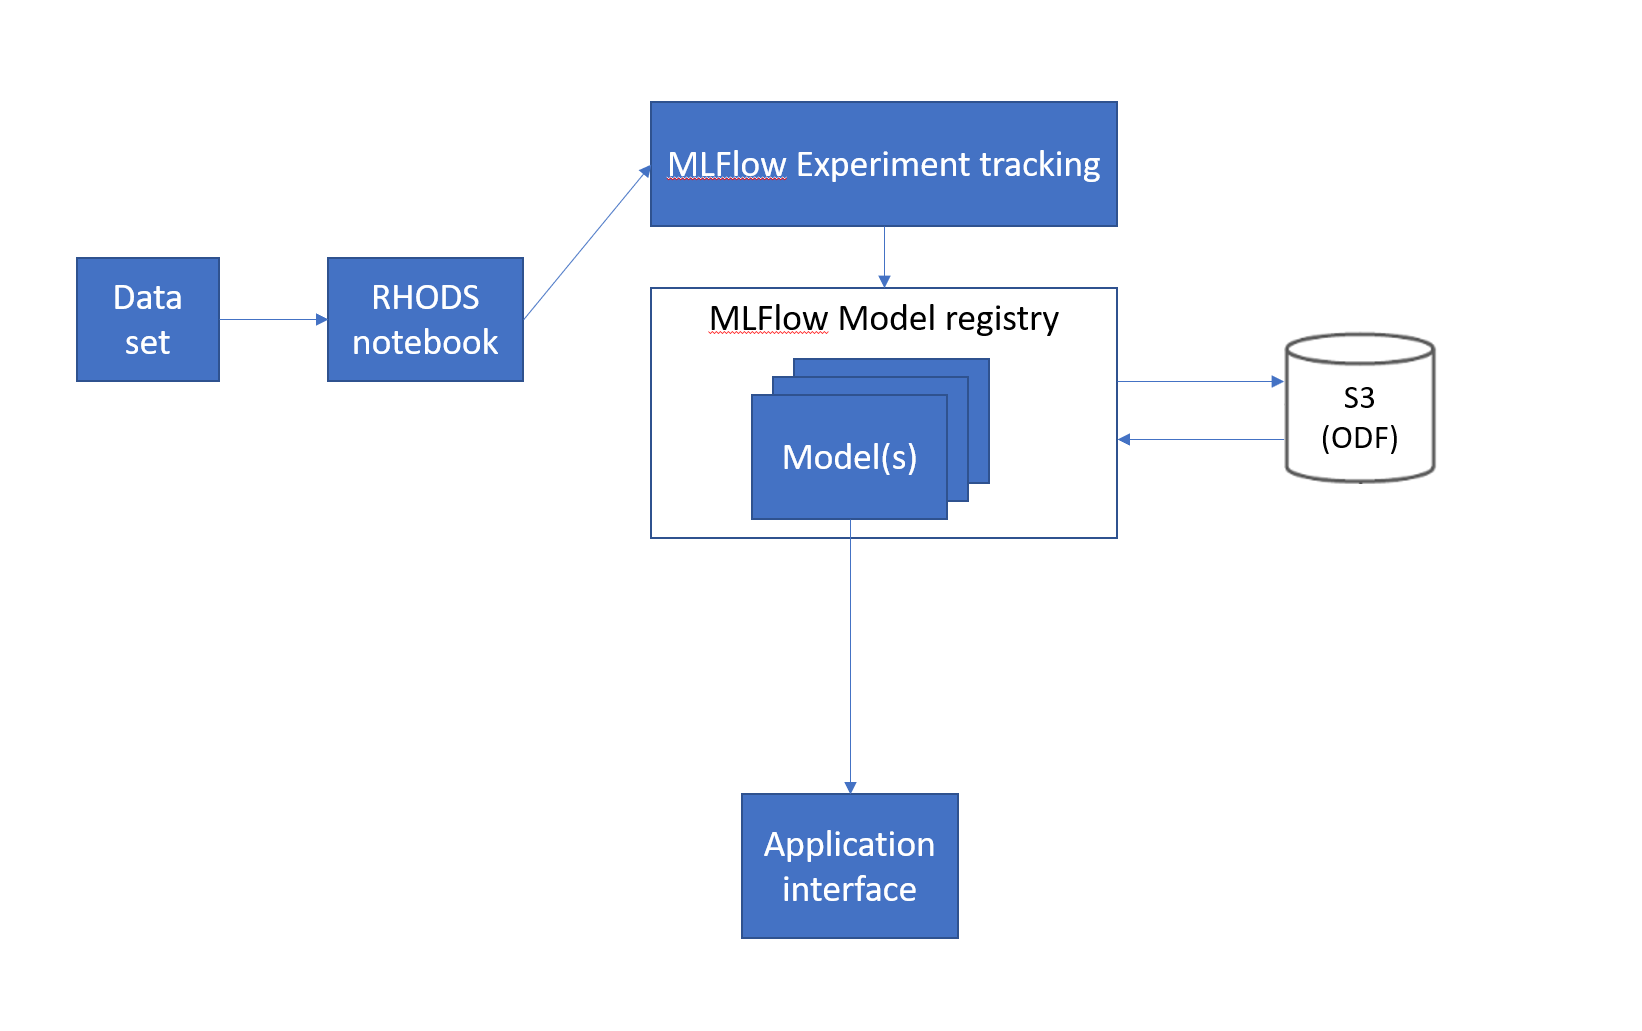
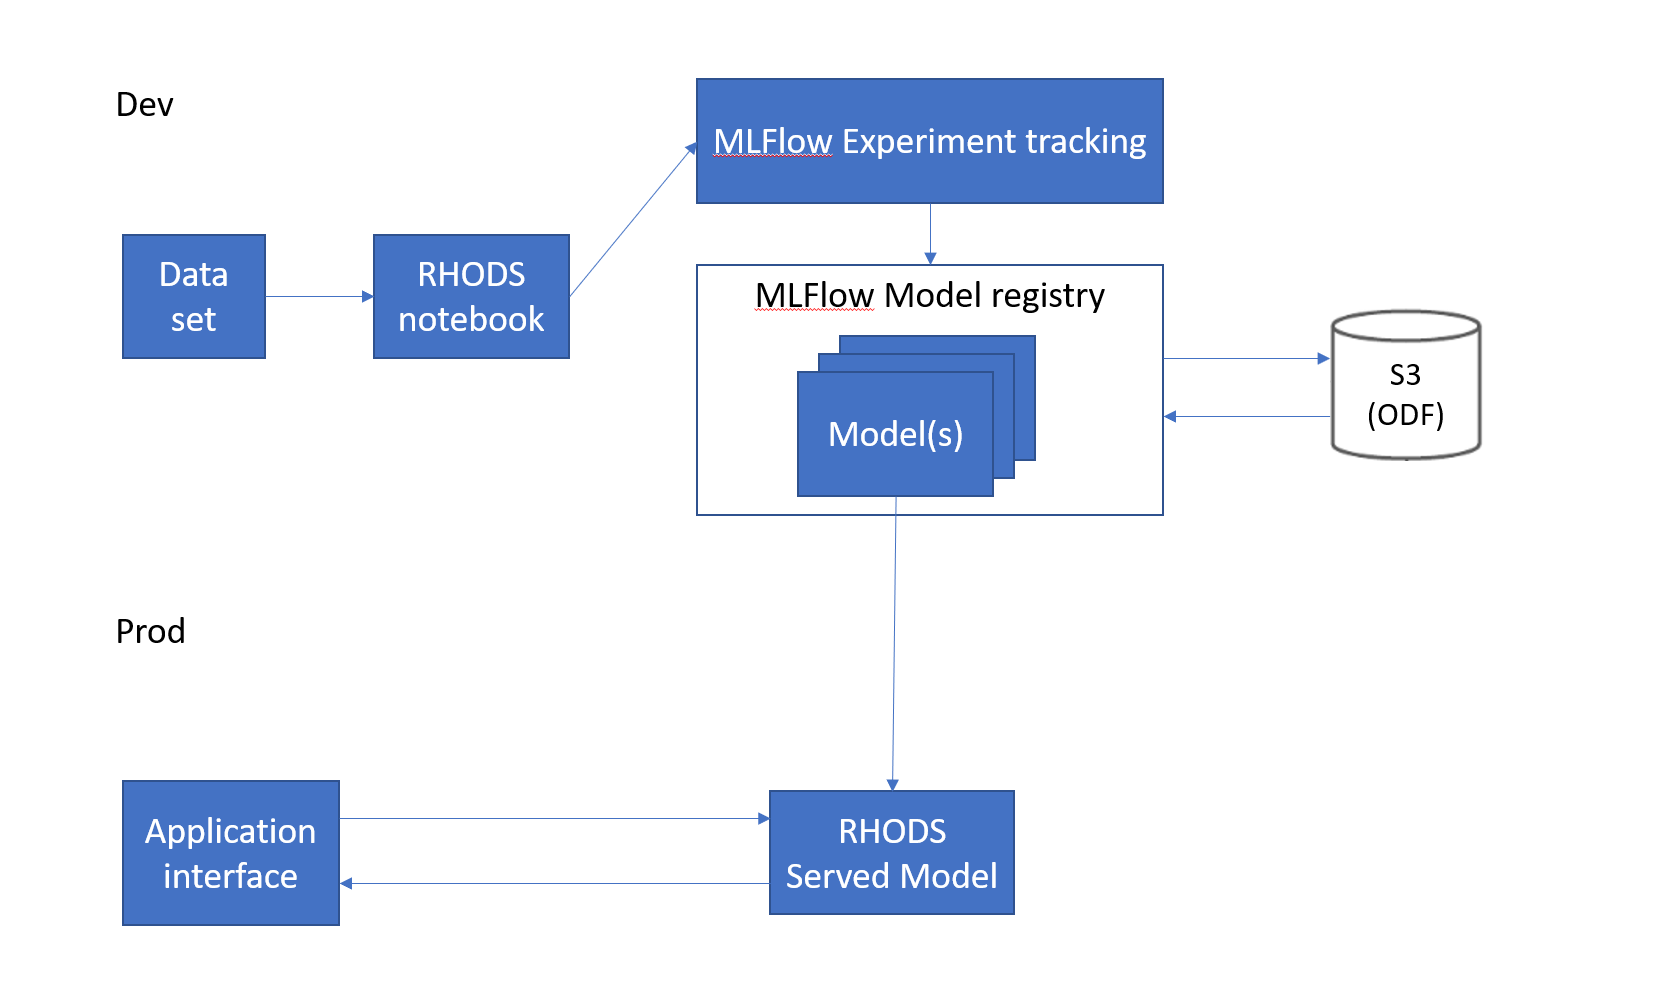
updated README to include RHODS Serving

diff --git a/README.md b/README.md
@@ -126,9 +126,13 @@ with mlflow.start_run():
     mlflow.log_metric("fp", f_p)
     mlflow.log_metric("fn", f_n)
     mlflow.log_metric("tp", t_p)
+
+    model_proto,_ = tf2onnx.convert.from_keras(model)
+    mlflow.onnx.log_model(model_proto, "models")
 ```
 `with mlflow.start_run():` is used to tell MLFlow that we are starting a run, and we wrap our training code with it to define exactly what code belongs to the "run".  
-Most of the rest of the code in this cell is normal model training and evaluation code, but at the very bottom we can see how we send some custom metrics to MLFlow through `mlflow.log_metric`. We do this as custom metrics are not tracked by the autolog we enabled in the previous cell.
+Most of the rest of the code in this cell is normal model training and evaluation code, but at the bottom we can see how we send some custom metrics to MLFlow through `mlflow.log_metric` and then convert the model to ONNX. This is because ONNX is one of the standard formats for RHODS Serving we will use later.
+
 
 Now run all the cells in the notebook from top to bottom, either by clicking Shift-Enter on every cell, or by going to Run->Run All Cells in the very top menu.  
 If everything is set up correctly it will train the model and push both the run and the model to MLFlow.  
@@ -153,33 +157,64 @@ You can now click on the row in the Created column to get more information about
 
 ![MLFlow view](img/MLFlow_view.png)
 
-### 5: Deploy the model application
-The model application is a visual interface for interacting with the model. You can use it to send data to the model and get a prediction of whether a transaction is fraudulent or not.  
-It works by loading a specific model and model version from MLFlow, and running any data that comes in through the model.  
+We will need the Full Path of the model in the next section when we are going to serve it, keep this open. 
+
+![MLFlow Model Path](img/MLFlow_Model_Path.png)
+
+
+### 5: Serve the model
+Now that we have a model trained and tracked, let's serve it using RHODS Serving.
+We are going to need a few details to load and serve the model, so bear with me.
+
+To start, go to your RHODS Project and click "Add data connection".
+This data connection connects us to a storage we can load our models from.
+
+![Add Data Connection](img/Add_Data_Connection.png)
+
+Here we need to fill out a few details. These are all assuming that you set up MLFlow according to this [guide](/tools-and-applications/mlflow/mlflow/) and have it connected to ODF. If that's not the case then enter the relevant details for your usecase.
+
+- **Name**: I call it `mlflow-connection`, feel free to call it something else
+- **AWS_ACCESS_KEY_ID**: Run `kubectl get secret noobaa-admin -n openshift-storage -o json | jq -r '.data.AWS_ACCESS_KEY_ID|@base64d'` in your command prompt to get this, in my case it's `9bgVYBWLDEq4Bk7wpmoJ`
+- **AWS_SECRET_ACCESS_KEY**: Run `kubectl get secret noobaa-admin -n openshift-storage -o json | jq -r '.data.AWS_SECRET_ACCESS_KEY|@base64d'` in your command prompt to get this, in my case it's `kc7hb9stJ2uwxF1c0RibOkrQYc2yd0FoVS7CLzGV`.  
+NOTE: In my case the cluster and storage has already been shut down, don't share this in normal cases.
+- **AWS_S3_ENDPOINT**: Run `oc describe noobaa -n openshift-storage | grep https://s3-openshift-storage.apps` in your command prompt to get this, in my case it's `https://s3-openshift-storage.apps.cluster-nvj4w.nvj4w.sandbox944.opentlc.com`
+- **AWS_DEFAULT_REGION**: Where the cluster is being ran
+- **AWS_S3_BUCKET**: *TODO, Fill in with correct directions!* In my case it's `mlflow-server-576a6525-cc5b-46cb-95f3-62c3986846df`
+
+Then press "Add data connection".  
+Here's an example of how it can look like:  
+![Data Connection Details](img/Data_Connection_Details.png)
+
+Then we will configure a model server, which will serve our models.
+
+![Configure Model Server](img/Configure_Model_Server.png)
+
+Just check the 'Make deployed available via an external route' checkbox and then press "Configure" at the bottom.
+
+Finally, we will deply the model, to do that, press the "Deploy model" button which is in the same place that "Configure Model" was before.  
+We need to fill out a few settings here:
+
+- **Name**: I call it `credit card fraud`, feel free to call it something else
+- **Model framework**: If you recall from the model training section, we saved the model as ONNX, so select that here
+- **Model location**:
+    - **Name**: `mlflow-connection`
+    - **Folder path**: This is the full path we can see in the MLFlow interface from the end of the last section. In my case it's `1/b86481027f9b4b568c9efa3adc01929f/artifacts/models/` . Beware that we only need the last part which looks something like: `/1/..../artifacts/models`
+    ![MLFlow Model Path](img/MLFlow_Model_Path.png)
+
+![Deployment Model Options](img/Deployment_Model_Options.png)
+
+Press Deploy and wait for it to complete. It will show a green checkmark when done.  
+You can see the status here:
+
+![Deployment Status](img/Deployment_Status.png)
+
+We are going to need the "Inference endpoint" in the next section, so keep track of it.
+
+### 6: Deploy the model application
+The model application is a visual interface for interacting with the model. You can use it to send data to the model and get a prediction of whether a transaction is fraudulent or not.   
 You can find the model application code in the "application" folder in the GitHub repository you cloned in [step 3](#3-train-the-model).
 
 ![Model Application Folder](img/Model_Application_Folder.PNG)
-
-If you look inside `model_application.py` you are going to see a few particularly important lines of code:
-```
-# Get a few environment variables. These are so we can:
-# - get data from MLFlow
-# - Set server name and port for Gradio
-MLFLOW_ROUTE = os.getenv("MLFLOW_ROUTE")
-...
-
-# Connect to MLFlow using the route.
-mlflow.set_tracking_uri(MLFLOW_ROUTE)
-
-# Specify what model and version we want to load, and then load it.
-model_name = "DNN-credit-card-fraud"
-model_version = 1
-model = mlflow.pyfunc.load_model(
-    model_uri=f"models:/{model_name}/{model_version}"
-)
-```
-Here is where we set up everything that's needed for loading the model from MLFlow. The environment variable MLFLOW_ROUTE is set in the Dockerfile.  
-You can also see that we specifically load version 1 of the model called "DNN-credit-card-fraud" from MLFlow. This makes sense since we only ran the model once, but is easy to change if any other version or model should go into production
 
 We are going to deploy the application with OpenShift by pointing to the GitHub repository.  
 It will pull down the folder, automatically build a container image based on the Dockerfile, and publish it.
@@ -195,7 +230,7 @@ Finally, at the very bottom, click the blue "Deployment" link:
 
 ![Deployment Options](img/Deployment_Options.png)
 
-And add `MLFLOW_ROUTE` as Name and your route from [step one](#11-mlflow-route-through-the-visual-interface) as Value (`http://mlflow-server.mlflow.svc.cluster.local:8080` for example).
+And add `INFERENCE_ENDPOINT` as **Name** and your route from the [previous section](#5-serve-the-model) as **Value** (`https://credit-card-fraud-credit-card-fraud.apps.cluster-nvj4w.nvj4w.sandbox944.opentlc.com/v2/models/credit-card-fraud/infer` for example).
 
 Your full settings page should look something like this:
 
